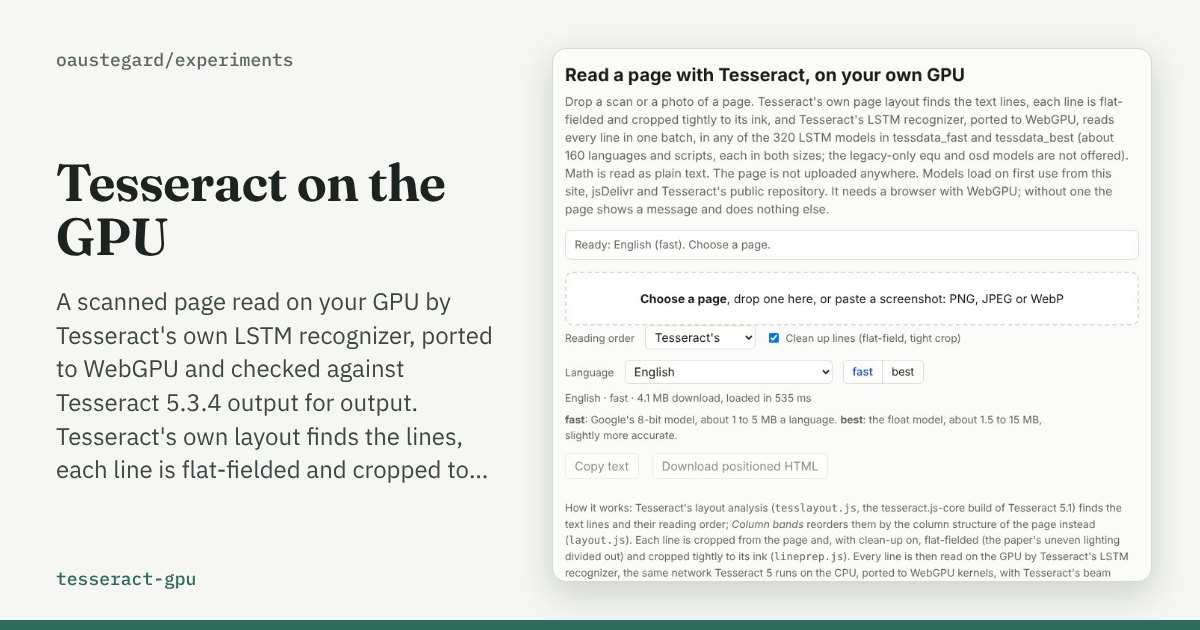
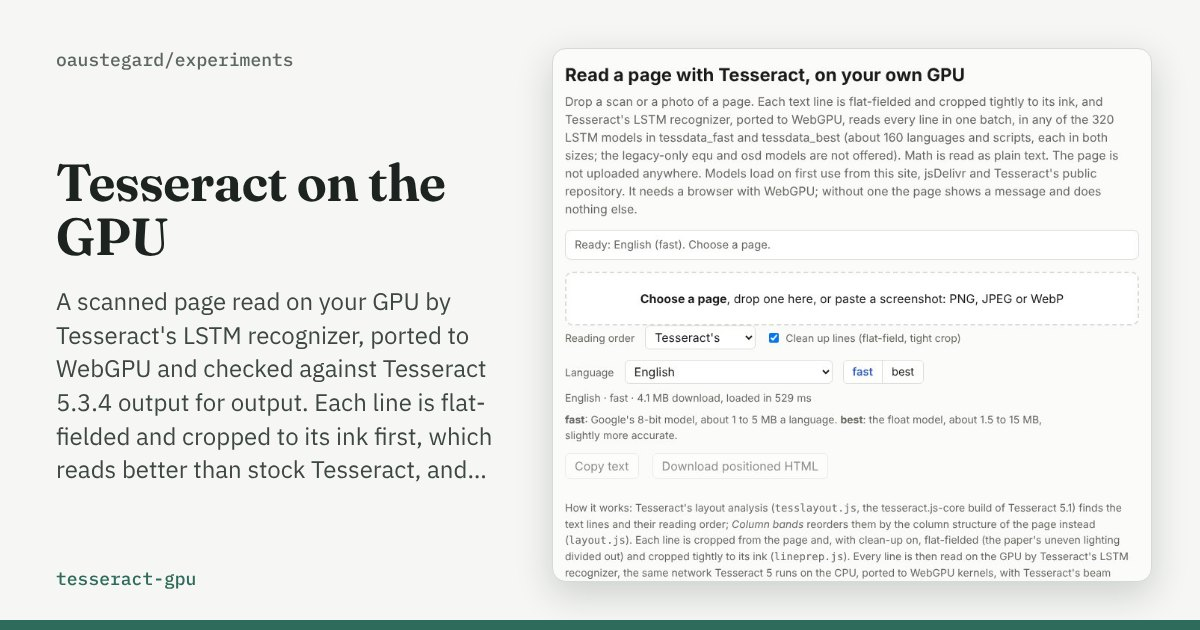
tesseract-gpu: describe what the page adds, not which layout it uses
Claude-Session: https://claude.ai/code/session_01P6FqarjFscTMwEqcuDmQwQ

Changed region(s): [[0.4625, 0.1508, 0.9558, 0.3619], [0.0308, 0.5127, 0.4008, 0.7841]]

diff --git a/tesseract-gpu/web/index.html b/tesseract-gpu/web/index.html
@@ -4,14 +4,14 @@
 <meta charset="utf-8">
 <meta name="viewport" content="width=device-width, initial-scale=1">
 <title>Page to text, with Tesseract on WebGPU</title>
-<meta name="description" content="A scanned page or photo read in your browser on the GPU by Tesseract: its own layout finds the lines, each line is cleaned up, and its LSTM recognizer reads them all in one batch on WebGPU.">
+<meta name="description" content="A scanned page or photo read in your browser on the GPU by Tesseract's LSTM recognizer, ported to WebGPU: every line is cleaned up and all of them are read in one batch.">
 <link rel="stylesheet" href="style.css">
 </head>
 <body>
 <main>
 <header>
   <h1>Read a page with Tesseract, on your own GPU</h1>
-  <p class="lede">Drop a scan or a photo of a page. Tesseract's own page layout finds the text lines, each line is flat-fielded and cropped tightly to its ink, and
+  <p class="lede">Drop a scan or a photo of a page. Each text line is flat-fielded and cropped tightly to its ink, and
   Tesseract's LSTM recognizer, ported to WebGPU, reads every line in one batch, in any of the 320 LSTM models in tessdata_fast and tessdata_best (about 160 languages
   and scripts, each in both sizes; the legacy-only equ and osd models are not offered). Math is read as plain text.
   The page is not uploaded anywhere. Models load on first use from this site, jsDelivr and Tesseract's public repository. It needs a browser with WebGPU; without one

diff --git a/README.md b/README.md
@@ -31,7 +31,7 @@ under five minutes. `remex-vs-higgs-ablation/` has all three.
 | [`haiku-delegation-skills/`](haiku-delegation-skills/index.html) | 2026-11-18 | **done, [live](https://austegard.com/experiments/haiku-delegation-skills/) — 21 skills from oaustegard/claude-skills that hand work to Claude Haiku 5.5, grouped by job: deciding and prompting (`agent-routing`, `down-skilling`, `writing-instructions`, `reasoning-semiformally`), launching from Claude Code (`dispatching-subagents`, `delegating-with-context`), Haiku as a per-item worker (`deciding-with-confidence`, `hallucinating-labels`, `verifying-review-findings`), Haiku swarms (`evolving-with-swarms`, `swarming-to-green`), fan-out from claude.ai chat (five skills whose Claude path defaults to Sonnet, plus a deprecated alias), and five domain skills with a Haiku option, two of which advise against it. Each card says when to use the skill and when not, with a decision path at the start** | [`index.html`](haiku-delegation-skills/index.html) | Oskar: "inventory our claude-skills for skills that deal with delegation of tasks to Haiku - from down-skilling to all the swarm/delegate/sub-agent/routing skills, and put together a webpage in experiments that briefly details each and when/what for you'd use each" |
 | [`ui-sdk-preact/`](ui-sdk-preact/README.md) | 2026-11-18 | **done, [live](https://austegard.com/ai-tools/ui-sdk-preact/) — a Preact port of ui-sdk (vercel-labs/ui): the published `@ui-sdk/react` on Preact 11.2 through `preact/compat`, plus an 83-line `fixes.js`. On ui-sdk's own 2,991-test React suite it passes 2,868 against React's 2,884; the 16 left are React-only features (`<Activity>`, concurrent `useTransition`) and a bounded leak of one closed popup. The fixes cover Preact's `useId` repeating across render roots, removed props leaving `type=""`, and `""` read as false on boolean DOM properties. A code-split rolldown build loads a button in 16.8 KB gzip and a dialog in 42.7 KB with no build step (esbuild's splitting pulled 248 KB into the button)** | [`README.md`](ui-sdk-preact/README.md) (`build.mjs`, `esm.mjs`, `src/fixes.js`, `web/index.html`, `harness/`) | Oskar: "Could we build a Preact port for these? https://ui-sdk.dev/docs/core" |
 | [`indra-browser/`](indra-browser/RESULTS.md) | 2026-11-18 | **done, [live](https://austegard.com/experiments/indra-browser/web/) — Datalab's Indra OCR (about 12M parameters: line detector, per-script CTC recognizers, n-gram word models, reading-order transformer) turning a scan or PDF into markdown in a browser tab on WebGPU, with no onnxruntime. The JS port reproduces indra-ocr's markdown character for character on every page compared (15/15 without the word model, 10/10 with it). On Omni Parse Bench (2,937 pages, read without the PDF text layer) fp16 weights score 61.55 against fp32's 61.51, 8-bit 61.18, 6-bit 60.40 and 4-bit 49.56, the page ships 8-bit recognizers and reading-order model with fp16 elsewhere: 61.36 at a 2.24 MB core download (fp16: 4.05 MB). The word model matters only for handwriting (25.3 vs 22.0 without it); its values survive 2-bit codebooks and a trie layout makes the Latin table 2.54 MB instead of 15.7 MB, fetched on first need. Once the models are loaded, a page takes 54 to 97 ms on a Mac, with all of Indra's networks running on WebGPU** | [`RESULTS.md`](indra-browser/RESULTS.md) + `results/summary.json` (`run/opb_eval.py`, `run/quant.py`, `run/lmpack.py`, `run/export.py`, `run/ref.py`, `web/indra.js`, `web/nets.js`, `web/index.html`) | Oskar: pack the OCR model under marker (Indra, not the Surya VLM) as a web page like the Ettin and GLiNER conversions, maximum Pareto byte efficiency, n-gram tables heavily quantized, models hot-loaded on demand |
-| [`tesseract-gpu/`](tesseract-gpu/RESULTS.md) | 2026-11-19 | **in progress, [live](https://austegard.com/experiments/tesseract-gpu/web/) — Tesseract 5's LSTM line recognizer on the GPU, as a PyTorch engine for servers and a WebGPU engine for the browser, loading any of the 320 tessdata models unchanged. The NumPy reference both are checked against matches Tesseract 5.3.4's own softmax to 3.3e-5 (float) and 1.3e-6 (8-bit) with the same best code at every timestep on 686 lines in English, French and Ancient Greek, once it copies 5.3.4's std::minstd_rand border padding and float32 rounding; a port of Tesseract's beam search returns its exact characters on 1,372/1,372 readings. On a Mac in Chrome 343 lines take 176 ms of GPU time with eng best, text identical to the reference; on a Kaggle T4 the server engine reads 1,143 lines/s, still limited by host-side preparation. tessdata_best packs to 8-bit weights within 0.1 CER point (1.5 MB for English); 4-bit breaks. Cropping each line to its ink and flat-fielding it makes the same model beat stock Tesseract on English synthetic lines (0.28% vs 0.31% clean, 0.52% vs 4.86% shaded); on real scans PP-OCRv6 still reads 5% CER to Tesseract's 13%. The demo page is Tesseract end to end: its own layout, cleaned lines, its LSTM on WebGPU** | [`RESULTS.md`](tesseract-gpu/RESULTS.md) + `results/summary.json` (`tessgpu/ref.py`, `tessgpu/beam.py`, `server/torch_engine.py`, `web/engine.js`, `web/kernels/`, `harness/tess_dump.cpp`) | Oskar: a GPU-optimized Tesseract using the packing approach, server and WebGPU offerings, smaller tasks fanned out to Haiku in parallel, plus image handling, math coverage and the LSTM itself |
+| [`tesseract-gpu/`](tesseract-gpu/RESULTS.md) | 2026-11-19 | **in progress, [live](https://austegard.com/experiments/tesseract-gpu/web/) — Tesseract 5's LSTM line recognizer on the GPU, as a PyTorch engine for servers and a WebGPU engine for the browser, loading any of the 320 tessdata models unchanged. The NumPy reference both are checked against matches Tesseract 5.3.4's own softmax to 3.3e-5 (float) and 1.3e-6 (8-bit) with the same best code at every timestep on 686 lines in English, French and Ancient Greek, once it copies 5.3.4's std::minstd_rand border padding and float32 rounding; a port of Tesseract's beam search returns its exact characters on 1,372/1,372 readings. On a Mac in Chrome 343 lines take 176 ms of GPU time with eng best, text identical to the reference; on a Kaggle T4 the server engine reads 1,143 lines/s, still limited by host-side preparation. tessdata_best packs to 8-bit weights within 0.1 CER point (1.5 MB for English); 4-bit breaks. Cropping each line to its ink and flat-fielding it makes the same model beat stock Tesseract on English synthetic lines (0.28% vs 0.31% clean, 0.52% vs 4.86% shaded); on real scans PP-OCRv6 still reads 5% CER to Tesseract's 13%. The demo page reads every line of a page in one GPU batch** | [`RESULTS.md`](tesseract-gpu/RESULTS.md) + `results/summary.json` (`tessgpu/ref.py`, `tessgpu/beam.py`, `server/torch_engine.py`, `web/engine.js`, `web/kernels/`, `harness/tess_dump.cpp`) | Oskar: a GPU-optimized Tesseract using the packing approach, server and WebGPU offerings, smaller tasks fanned out to Haiku in parallel, plus image handling, math coverage and the LSTM itself |
 | [`tiny-voca-voices/`](tiny-voca-voices/RESULTS.md) | 2026-11-16 | **done — [a page](https://austegard.com/experiments/tiny-voca-voices/web/) where you design your own tiny-voca voice, hear it in the browser save it as a 4 KB voice file that `tinyvoca.js` (any page) and `speak.py` (onnxruntime) play identically, and [make it sing](https://austegard.com/experiments/tiny-voca-voices/web/sing.html) lyrics to notes you write (median note error under 1 cent, sung lyrics transcribed exactly): eleven sliders, all inputs to one 10 MB ONNX file (int8 except the duration path, every duration identical to fp32), 15.8× real time on one wasm thread. Voices are built from the learned F2/M2 embeddings plus four random off-line directions; the model's pitch, range and speed; and a formant warp, tilt and noise gain on its predicted cepstral filter. Intelligibility is limited by the distance off the F2–M2 line: every random voice to 1.13 transcribed exactly, 6 of 8 past 1.15 did not, so the page caps it. Every other slider end stays clean. Unlistened** | [`RESULTS.md`](tiny-voca-voices/RESULTS.md) + `web/` + `run/` + `samples/` | Oskar: "Could you tweak this voice model's voices? https://huggingface.co/n4ze3m/tiny-voca", then: "make this an experiments page … a way for a user to tune their own voice and run it in browser a la our Kokoro in the browser effort" |
 | [`ettin-ane/`](ettin-ane/RESULTS.md) | 2026-11-16 | **done — the packed Ettin-17m decider converted to Core ML and run on the M1's Neural Engine: 2.9 ms per 512-token decision against 6.3 ms on the CPU and 13.6 ms on the GPU, accuracy 0.747 on 490 Typed Decisions questions (the fp32 model scores the same on them; top answer unchanged on 488). 715 of 716 operations run on the Neural Engine. LoRA spikes and power draw not measured.** | [`RESULTS.md`](ettin-ane/RESULTS.md) | Oskar: "Ok port the 17m model. I bet you can get it done in less than an hour" |
 | [`remex-proptest/`](remex-proptest/RESULTS.md) | 2026-11-16 | **done — four Sonnet agents property-tested remex 2.2.0 (search paths, containers, stateful index and caches, encode) with the proptest-praxis method. Their regressions fail on 2.2.0 in 68 cases covering 21 distinct defects; the worst was silent code corruption when one container class read the other's `.npz` at `d*bits % 8 != 0`, plus a pickle segfault and a guard skipped on a warm cache. Fixed in remex 2.2.1 (10 cases left: two design questions that change stored codes, corners, ambiguous). 72 of 73 planted bugs caught.** | [`RESULTS.md`](remex-proptest/RESULTS.md) + `search/` `containers/` `stateful/` `encode/` + `record.py` | Oskar, after the bm25 pilot: *"Fix the found bugs, yes. Then run the test skill against remex"* |
@@ -300,7 +300,7 @@ Indra OCR reads a page with a line detector, a CTC recognizer per script group, 
 
 ### `tesseract-gpu/` — Tesseract's recognizer on the GPU
 
-Tesseract 5 reads each text line with a small LSTM network and a beam search, one line at a time on the CPU. This experiment runs the same network for whole batches of lines on the GPU: `server/torch_engine.py` for PyTorch (exact and cuDNN modes) and `web/engine.js` for WebGPU, with a NumPy reference (`tessgpu/ref.py`) checked against Tesseract 5.3.4 itself through a sandboxed harness that dumps the library's own outputs. Every tessdata LSTM model has the same topology, so one set of kernels serves all 320; `web/traineddata.js` loads any of them in the browser. The demo page finds lines with Tesseract's own layout (WASM), flat-fields each line and crops it to its ink, which makes the same model read better than stock Tesseract, and reads every line in one GPU batch. Licences: `tesseract-gpu/NOTICE.md`. See [`RESULTS.md`](tesseract-gpu/RESULTS.md).
+Tesseract 5 reads each text line with a small LSTM network and a beam search, one line at a time on the CPU. This experiment runs the same network for whole batches of lines on the GPU: `server/torch_engine.py` for PyTorch (exact and cuDNN modes) and `web/engine.js` for WebGPU, with a NumPy reference (`tessgpu/ref.py`) checked against Tesseract 5.3.4 itself through a sandboxed harness that dumps the library's own outputs. Every tessdata LSTM model has the same topology, so one set of kernels serves all 320; `web/traineddata.js` loads any of them in the browser. Flat-fielding each line and cropping it to its ink makes the same model read better than stock Tesseract; the demo page does that for every line of a page and reads them in one GPU batch. Licences: `tesseract-gpu/NOTICE.md`. See [`RESULTS.md`](tesseract-gpu/RESULTS.md).
 ### `remex-proptest/` — property tests of remex by four agents
 
 One directory per area, each with a Hypothesis harness, deterministic regressions (`xfail(strict)` marks the ambiguous ones) and its mutant runner. `record.py <remex clone>` reruns the regressions against 2.2.0 and the fixed commit and tallies mutants into `results/summary.json`. The fixes and 35 distilled cases live in remex itself (`tests/test_property_findings.py`).

diff --git a/tesseract-gpu/RESULTS.md b/tesseract-gpu/RESULTS.md
@@ -89,7 +89,7 @@ retraining.
    Apache-2.0) reads the 800 real lines at 5.0% CER (case-insensitive), the 1.1M-parameter tiny at 6.8%, against 12.9% for the Tesseract
    CLI; on synthetic English 0.26% against 0.88%. Its character set covers 76.5% of the Ancient Greek test text, which it
    reads at 56% CER against Tesseract's 4.6% (`run/pp_rec_compare.py`, `results/pp_rec_compare.json`). It is a reference
-   point here, not a component: this experiment keeps Tesseract's own models end to end.
+   point, not part of either engine.
 
 ## Method
 
@@ -120,7 +120,7 @@ fixtures from `run/make_fixtures.py`), `run/check_torch.py`, `run/check_beam.py`
 Real-GPU timing: GPU Bridge jobs on Oskar's Mac (`run/bridge/`, results in `results/bridge_tess-gpu-*_mac.json`) and a
 Kaggle T4 batch job (`run/kaggle/server_bench.py`, `results/kaggle_t4_server_bench_1.json`).
 
-**Demo page.** Tesseract 5.1's own layout (`web/tesslayout.js`, tesseract.js-core in WebAssembly) finds the lines and
+**Demo page.** Tesseract 5.1's layout analysis (`web/tesslayout.js`, tesseract.js-core in WebAssembly) finds the lines and
 their reading order, or `web/layout.js` reorders them by column bands (a port of anything-to-text's ordering). Each line
 is flat-fielded and cropped to its ink (`web/lineprep.js`, within 2 grey levels of `tessgpu/lineprep.py` on 48 test
 lines, `web/test/check_lineprep.mjs`), then every line goes through this engine in one batch. Math lines are read as

diff --git a/tesseract-gpu/NOTICE.md b/tesseract-gpu/NOTICE.md
@@ -26,7 +26,7 @@ fetches them from jsDelivr at run time; this repository does not redistribute th
 
 ## Line finding (Apache-2.0)
 
-The demo page finds lines with Tesseract's own layout: `web/tesslayout.js` loads tesseract.js-core
+`web/tesslayout.js` loads tesseract.js-core
 (https://github.com/naptha/tesseract.js-core, Apache-2.0, Tesseract 5.1) from jsDelivr at run time, and the server
 pipeline uses tesserocr (MIT) over Tesseract's own library. The column-band reading order in `web/layout.js` and
 `tessgpu/layout.py` is ported from anything-to-text in oaustegard.github.io (same owner).
